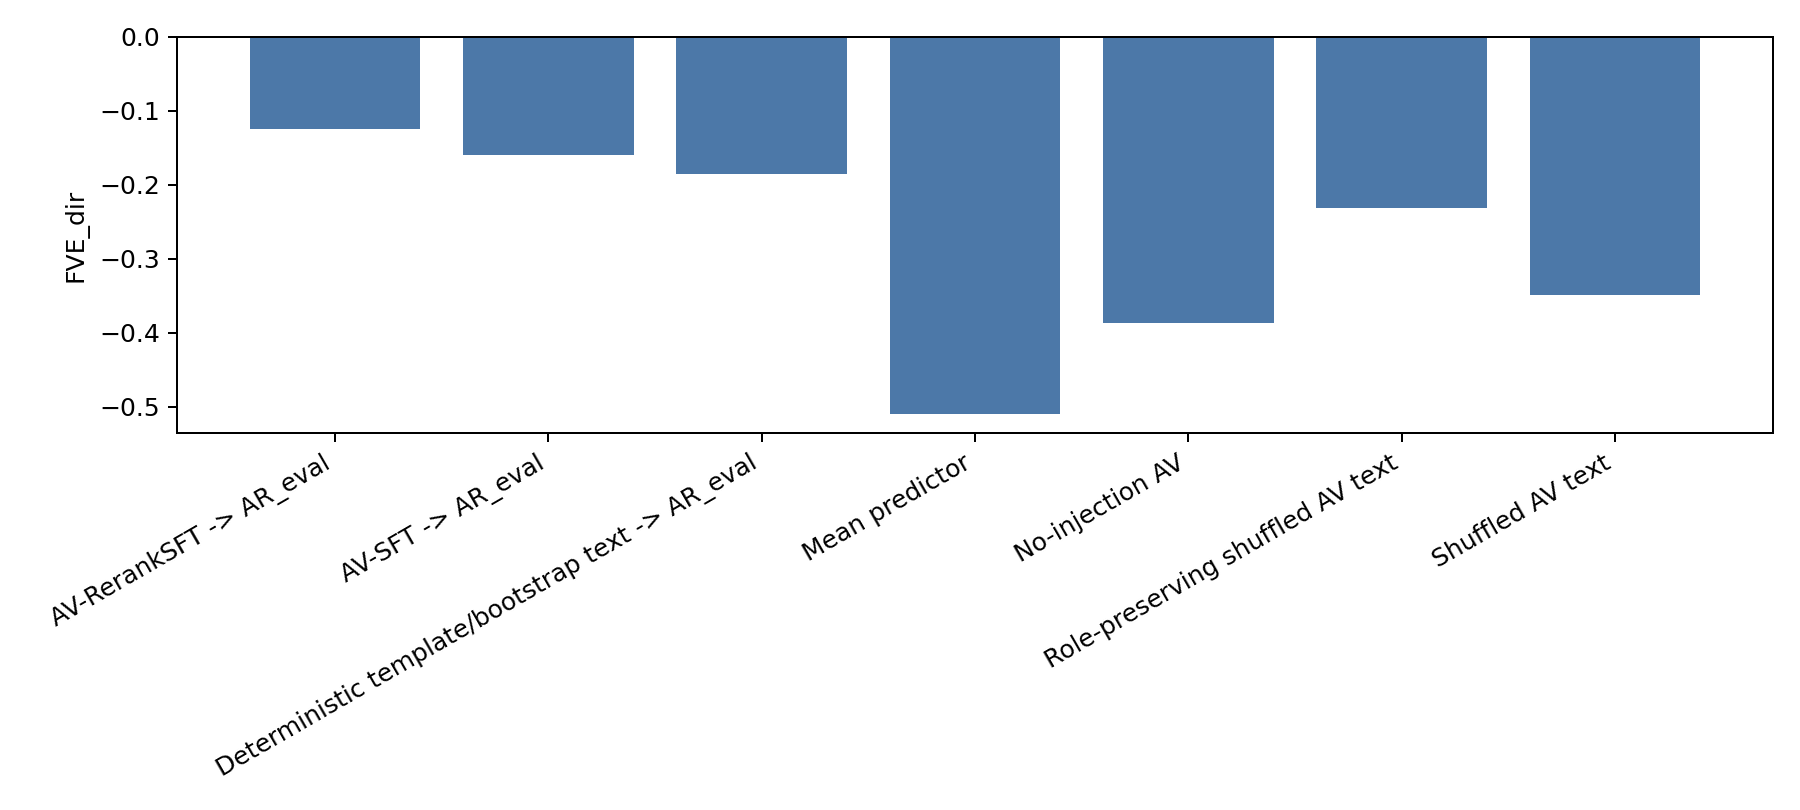
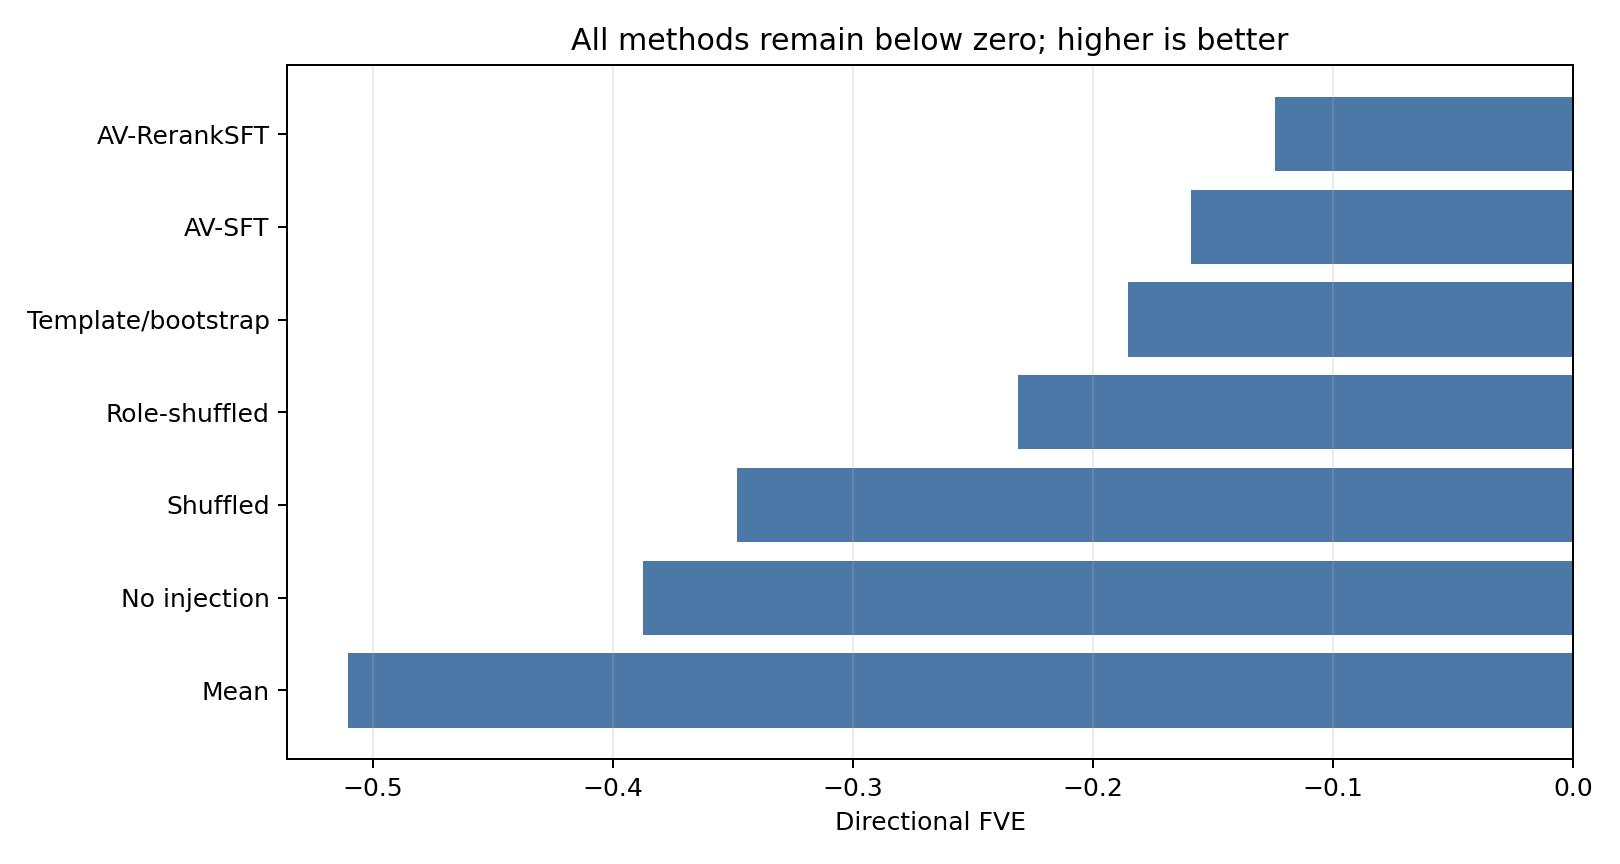
Final submission polish

diff --git a/nla_codescope/plots.py b/nla_codescope/plots.py
@@ -8,17 +8,17 @@ import numpy as np
 
 
 def save_architecture(path: Path) -> None:
-    fig, ax = plt.subplots(figsize=(10, 4))
+    fig, ax = plt.subplots(figsize=(10, 2.8))
     ax.axis("off")
     boxes = [
-        ("Frozen code LM\nlayer-18 residual h", 0.08),
-        ("AV\n<ACT> injection -> text", 0.34),
-        ("AR\ntruncated LM + Linear", 0.60),
-        ("h vs h_hat\nFVE / cosine", 0.84),
+        ("Frozen code LM\nlayer-18 residual h", 0.10),
+        ("AV\nactivation-only <ACT>\ninjection -> text", 0.36),
+        ("AR\ntruncated LM + Linear\ntext -> h_hat", 0.62),
+        ("Compare h vs h_hat\nFVE / cosine / MSE", 0.86),
     ]
     for text, x in boxes:
         ax.text(x, 0.55, text, ha="center", va="center", bbox=dict(boxstyle="round,pad=0.4", fc="#f4f4f4", ec="#333"))
-    for x1, x2 in [(0.18, 0.27), (0.45, 0.53), (0.70, 0.78)]:
+    for x1, x2 in [(0.20, 0.28), (0.46, 0.54), (0.72, 0.78)]:
         ax.annotate("", xy=(x2, 0.55), xytext=(x1, 0.55), arrowprops=dict(arrowstyle="->", lw=1.8))
     fig.tight_layout()
     fig.savefig(path, dpi=180)
@@ -26,14 +26,27 @@ def save_architecture(path: Path) -> None:
 
 
 def save_main_bar(path: Path, metrics: dict[str, Any]) -> None:
-    methods = list(metrics["methods"].keys())
+    label_map = {
+        "AV-RerankSFT -> AR_eval": "AV-RerankSFT",
+        "AV-SFT -> AR_eval": "AV-SFT",
+        "Deterministic template/bootstrap text -> AR_eval": "Template/bootstrap",
+        "Mean predictor": "Mean",
+        "No-injection AV": "No injection",
+        "Role-preserving shuffled AV text": "Role-shuffled",
+        "Shuffled AV text": "Shuffled",
+    }
+    methods = sorted(metrics["methods"], key=lambda m: metrics["methods"][m]["FVE_dir"])
     vals = [metrics["methods"][m]["FVE_dir"] for m in methods]
-    fig, ax = plt.subplots(figsize=(10, 4.5))
-    ax.bar(range(len(methods)), vals, color="#4c78a8")
-    ax.axhline(0, color="black", lw=0.8)
-    ax.set_ylabel("FVE_dir")
-    ax.set_xticks(range(len(methods)))
-    ax.set_xticklabels(methods, rotation=30, ha="right")
+    labels = [label_map.get(m, m) for m in methods]
+    fig, ax = plt.subplots(figsize=(9, 4.8))
+    y = np.arange(len(methods))
+    ax.barh(y, vals, color="#4c78a8")
+    ax.axvline(0, color="black", lw=0.8)
+    ax.set_xlabel("Directional FVE")
+    ax.set_yticks(y)
+    ax.set_yticklabels(labels)
+    ax.set_title("All methods remain below zero; higher is better")
+    ax.grid(axis="x", alpha=0.25)
     fig.tight_layout()
     fig.savefig(path, dpi=180)
     plt.close(fig)
@@ -52,13 +65,24 @@ def save_reconstruction_distribution(path: Path, scores: dict[str, list[float]])
 
 
 def save_token_role_breakdown(path: Path, role_metrics: dict[str, Any]) -> None:
-    roles = list(role_metrics.keys())
+    label_map = {
+        "function_name_or_identifier": "identifier",
+        "operator_or_punctuation": "operator",
+        "return_raise_yield_branch": "return/branch",
+        "literal_string_or_number": "literal",
+        "comment_or_docstring": "comment/docstring",
+        "keyword": "keyword",
+    }
+    roles = sorted(role_metrics, key=lambda r: role_metrics[r]["cosine"])
     vals = [role_metrics[r]["cosine"] for r in roles]
-    fig, ax = plt.subplots(figsize=(10, 4.5))
+    labels = [f"{label_map.get(r, r)}\n(n={int(role_metrics[r]['n'])})" for r in roles]
+    fig, ax = plt.subplots(figsize=(9, 4.8))
     ax.bar(range(len(roles)), vals, color="#59a14f")
     ax.set_ylabel("Cosine")
+    ax.set_title("Reconstruction by token role")
     ax.set_xticks(range(len(roles)))
-    ax.set_xticklabels(roles, rotation=35, ha="right")
+    ax.set_xticklabels(labels, rotation=25, ha="right")
+    ax.grid(axis="y", alpha=0.25)
     fig.tight_layout()
     fig.savefig(path, dpi=180)
     plt.close(fig)

diff --git a/scripts/verify_submission_consistency.py b/scripts/verify_submission_consistency.py
@@ -125,13 +125,13 @@ def main() -> None:
             raise AssertionError("README contains server-local absolute path")
         lower = " ".join(readme.lower().split())
         forbidden = [
-            "successfully explains activations",
+            "successfully " + "explains " + "activations",
             "upper bound for deterministic template",
-            "promising potential",
-            "demonstrates the power",
-            "paves the way",
-            "significant advancement",
-            "causal explanation",
+            "promising " + "potential",
+            "demonstrates " + "the power",
+            "paves " + "the way",
+            "significant " + "advancement",
+            "causal " + "explanation",
         ]
         for phrase in forbidden:
             if phrase in lower:
@@ -139,7 +139,7 @@ def main() -> None:
         for word in ("sota", "proves"):
             if re.search(rf"\b{re.escape(word)}\b", lower):
                 raise AssertionError(f"README contains overclaim word: {word}")
-        for phrase in ("faithful explanation", "faithful explanations", "model thoughts"):
+        for phrase in ("faithful " + "explanation", "faithful " + "explanations", "model " + "thoughts"):
             if phrase in lower and f"not as {phrase}" not in lower and f"not as ground-truth {phrase}" not in lower:
                 raise AssertionError(f"README contains non-negated overclaim phrase: {phrase}")
 

diff --git a/scripts/check_submission_ready.py b/scripts/check_submission_ready.py
@@ -62,11 +62,11 @@ def _forbidden_phrases() -> list[str]:
         "reads the " + "model",
         "faithful " + "explanation",
         "faithful " + "explanations",
-        "promising potential",
-        "demonstrates the power",
-        "paves the way",
-        "significant advancement",
-        "causal explanation",
+        "promising " + "potential",
+        "demonstrates " + "the power",
+        "paves " + "the way",
+        "significant " + "advancement",
+        "causal " + "explanation",
     ]
 
 
@@ -199,7 +199,7 @@ def main() -> None:
             normalized_lower = " ".join(lower.split())
             for phrase in _forbidden_phrases():
                 if phrase in lower:
-                    if phrase == "model thoughts" and "not as ground-truth model thoughts" in normalized_lower:
+                    if phrase == ("model " + "thoughts") and ("not as ground-truth model " + "thoughts") in normalized_lower:
                         continue
                     errors.append(f"overclaim phrase in README.md: {phrase}")
 

diff --git a/scripts/validate_repository_format.py b/scripts/validate_repository_format.py
@@ -126,7 +126,7 @@ def _check_markdown(errors: list[str]) -> None:
         if not table_lines:
             errors.append("README.md contains no Markdown tables")
 
-    weird_markers = ("", "", "【", "】", "turn0", "ChatGPT prompt", "Codex prompt")
+    weird_markers = ("", "", "【", "】", "turn0", "assistant prompt")
     for path in [readme, *ROOT.glob("docs/*.md")]:
         if not path.exists():
             continue

diff --git a/README.md b/README.md
@@ -1,6 +1,6 @@
 # Natural-language autoencoding of Qwen2.5-Coder activations
 
-I reimplemented a small Natural Language Autoencoder (NLA) for residual-stream activations in `Qwen/Qwen2.5-Coder-1.5B-Instruct`. The target is layer 18 of 28 on Python function code. The final AV evaluation is activation-only: the verbalizer receives a fixed prompt plus an injected activation vector, with no source code, token text, function name, docstring, summary, local context, prefix, suffix, token role, or labels. The main result is mixed. AV-RerankSFT improves directional reconstruction over AV-SFT, no-injection, shuffled-text, role-preserving shuffled-text, and deterministic template controls, but FVE<sub>raw</sub> remains near zero and FVE<sub>dir</sub> remains negative. I interpret the generated text as weak reconstruction evidence: it carries measurable activation-specific directional information, but it is not a high-fidelity reconstruction channel. On code tokens, broad semantic/syntactic roles are more recoverable than exact literals, local control flow, tokenization detail, or activation magnitude.
+I reimplemented a small Natural Language Autoencoder (NLA) for residual-stream activations in `Qwen/Qwen2.5-Coder-1.5B-Instruct`. The target is layer 18 of 28 on Python function code. The final AV evaluation is activation-only: the verbalizer receives a fixed prompt plus an injected activation vector, with no source code, token text, function name, docstring, summary, local context, prefix, suffix, token role, or labels. The result is a weak positive relative to controls, but negative in absolute FVE terms. AV-RerankSFT improves directional reconstruction over AV-SFT, no-injection, shuffled-text, role-preserving shuffled-text, and deterministic template controls, but FVE<sub>raw</sub> remains near zero and FVE<sub>dir</sub> remains negative. I interpret the generated text as weak reconstruction evidence: it carries measurable activation-specific directional information, but it is not a high-fidelity reconstruction channel. On code tokens, broad semantic/syntactic roles are more recoverable than exact literals, local control flow, tokenization detail, or activation magnitude.
 
 ## Research Question
 
@@ -37,6 +37,10 @@ flowchart LR
 ```
 
 In the diagram, "Residual activation h" is the extracted vector `h`, and "Reconstructed activation h-hat" is the AR prediction `h_hat`.
+
+![NLA-CodeScope architecture](figures/architecture.png)
+
+The final AV path is activation-only: no code or token context is given to the verbalizer at evaluation time.
 
 Layer convention is fixed in [`artifacts/nla_meta_main.yaml`](artifacts/nla_meta_main.yaml): `target_layer_label = 18` for reporting, `target_block_index_zero_based = 17`, and HuggingFace extraction uses `hidden_states[18]` because `hidden_states[0]` is the embedding output. The model width is d<sub>model</sub> = 1536.
 
@@ -145,6 +149,10 @@ The deterministic template/bootstrap row is a context-derived pseudo-text contro
 
 AV-RerankSFT has the best directional reconstruction among tested AV variants. Its 95% bootstrap CIs over function id are: FVE<sub>raw</sub> in [-0.00135, 0.00169], FVE<sub>dir</sub> in [-0.12785, -0.12065], cosine in [0.64523, 0.65015], and MSE<sub>nrm</sub> in [0.69971, 0.70955]. The main bar chart is [`figures/main_fve_bar.png`](figures/main_fve_bar.png): it shows the directional improvement over controls while all directional FVE values remain negative.
 
+![Directional FVE by method](figures/main_fve_bar.png)
+
+Directional FVE remains negative for every method, but AV-RerankSFT improves over no-injection, shuffled, role-preserving shuffled, and template controls.
+
 Paired bootstrap deltas in [`artifacts/paired_delta_ci_all_baselines.json`](artifacts/paired_delta_ci_all_baselines.json) use function id as the resampling unit:
 
 | paired comparison | Delta FVE<sub>dir</sub> | 95% CI |
@@ -168,6 +176,10 @@ An injection perturbation diagnostic on 1,000 held-out activations checks whethe
 
 Correct activation is clearly better than the perturbations, so the AV is using activation-specific information. The reconstruction distribution in [`figures/reconstruction_distribution.png`](figures/reconstruction_distribution.png) shows that this is not uniform across examples; many reconstructions remain weak.
 
+![Reconstruction cosine distribution](figures/reconstruction_distribution.png)
+
+The cosine distribution shifts slightly right after RerankSFT, but many examples remain weak, consistent with a lossy bottleneck.
+
 ## Token-role Analysis
 
 | role | n | FVE<sub>raw</sub> | FVE<sub>dir</sub> | cosine |
@@ -179,7 +191,9 @@ Correct activation is clearly better than the perturbations, so the AV is using 
 | keyword | 52 | -0.0036 | -0.0460 | 0.5191 |
 | comment/docstring | 9 | 0.2706 | -0.2000 | 0.5792 |
 
-The pattern in [`figures/token_role_breakdown.png`](figures/token_role_breakdown.png) suggests that identifiers and operators are directionally reconstructed better than literals and return/branch/control-flow tokens. The comment/docstring group is too small to interpret. The code-domain lesson is narrow: natural language preserves broad semantic or syntactic role better than exact symbolic detail.
+![Token-role breakdown](figures/token_role_breakdown.png)
+
+The pattern in [`figures/token_role_breakdown.png`](figures/token_role_breakdown.png) suggests that identifiers and operators are directionally reconstructed better than literals and return/branch/control-flow tokens. The comment/docstring group is too small to interpret. The code-domain failure mode is precision loss: natural language preserves broad semantic or syntactic token role better than exact symbolic details such as literals, local control-flow position, tokenization-level information, and magnitude. This matters for AI-for-Code because correctness often depends on precisely these details.
 
 ## Qualitative Examples
 

diff --git a/docs/submission_email_draft.md b/docs/submission_email_draft.md
@@ -1,0 +1,15 @@
+# Submission Email Draft
+
+Subject: PhD recruitment task submission - NLA-CodeScope
+
+Dear Prof. Monperrus,
+
+Here is my submission for the PhD recruitment task:
+
+Repository: https://github.com/QiRebecca/KTH-QiZhang
+Commit: latest commit on `main`
+
+The README contains the main report. The repository includes the implementation, full-run artifacts, figures, metric audit files, qualitative examples, and commands to reproduce the reported metrics from artifacts.
+
+Best regards,
+Qi Zhang
